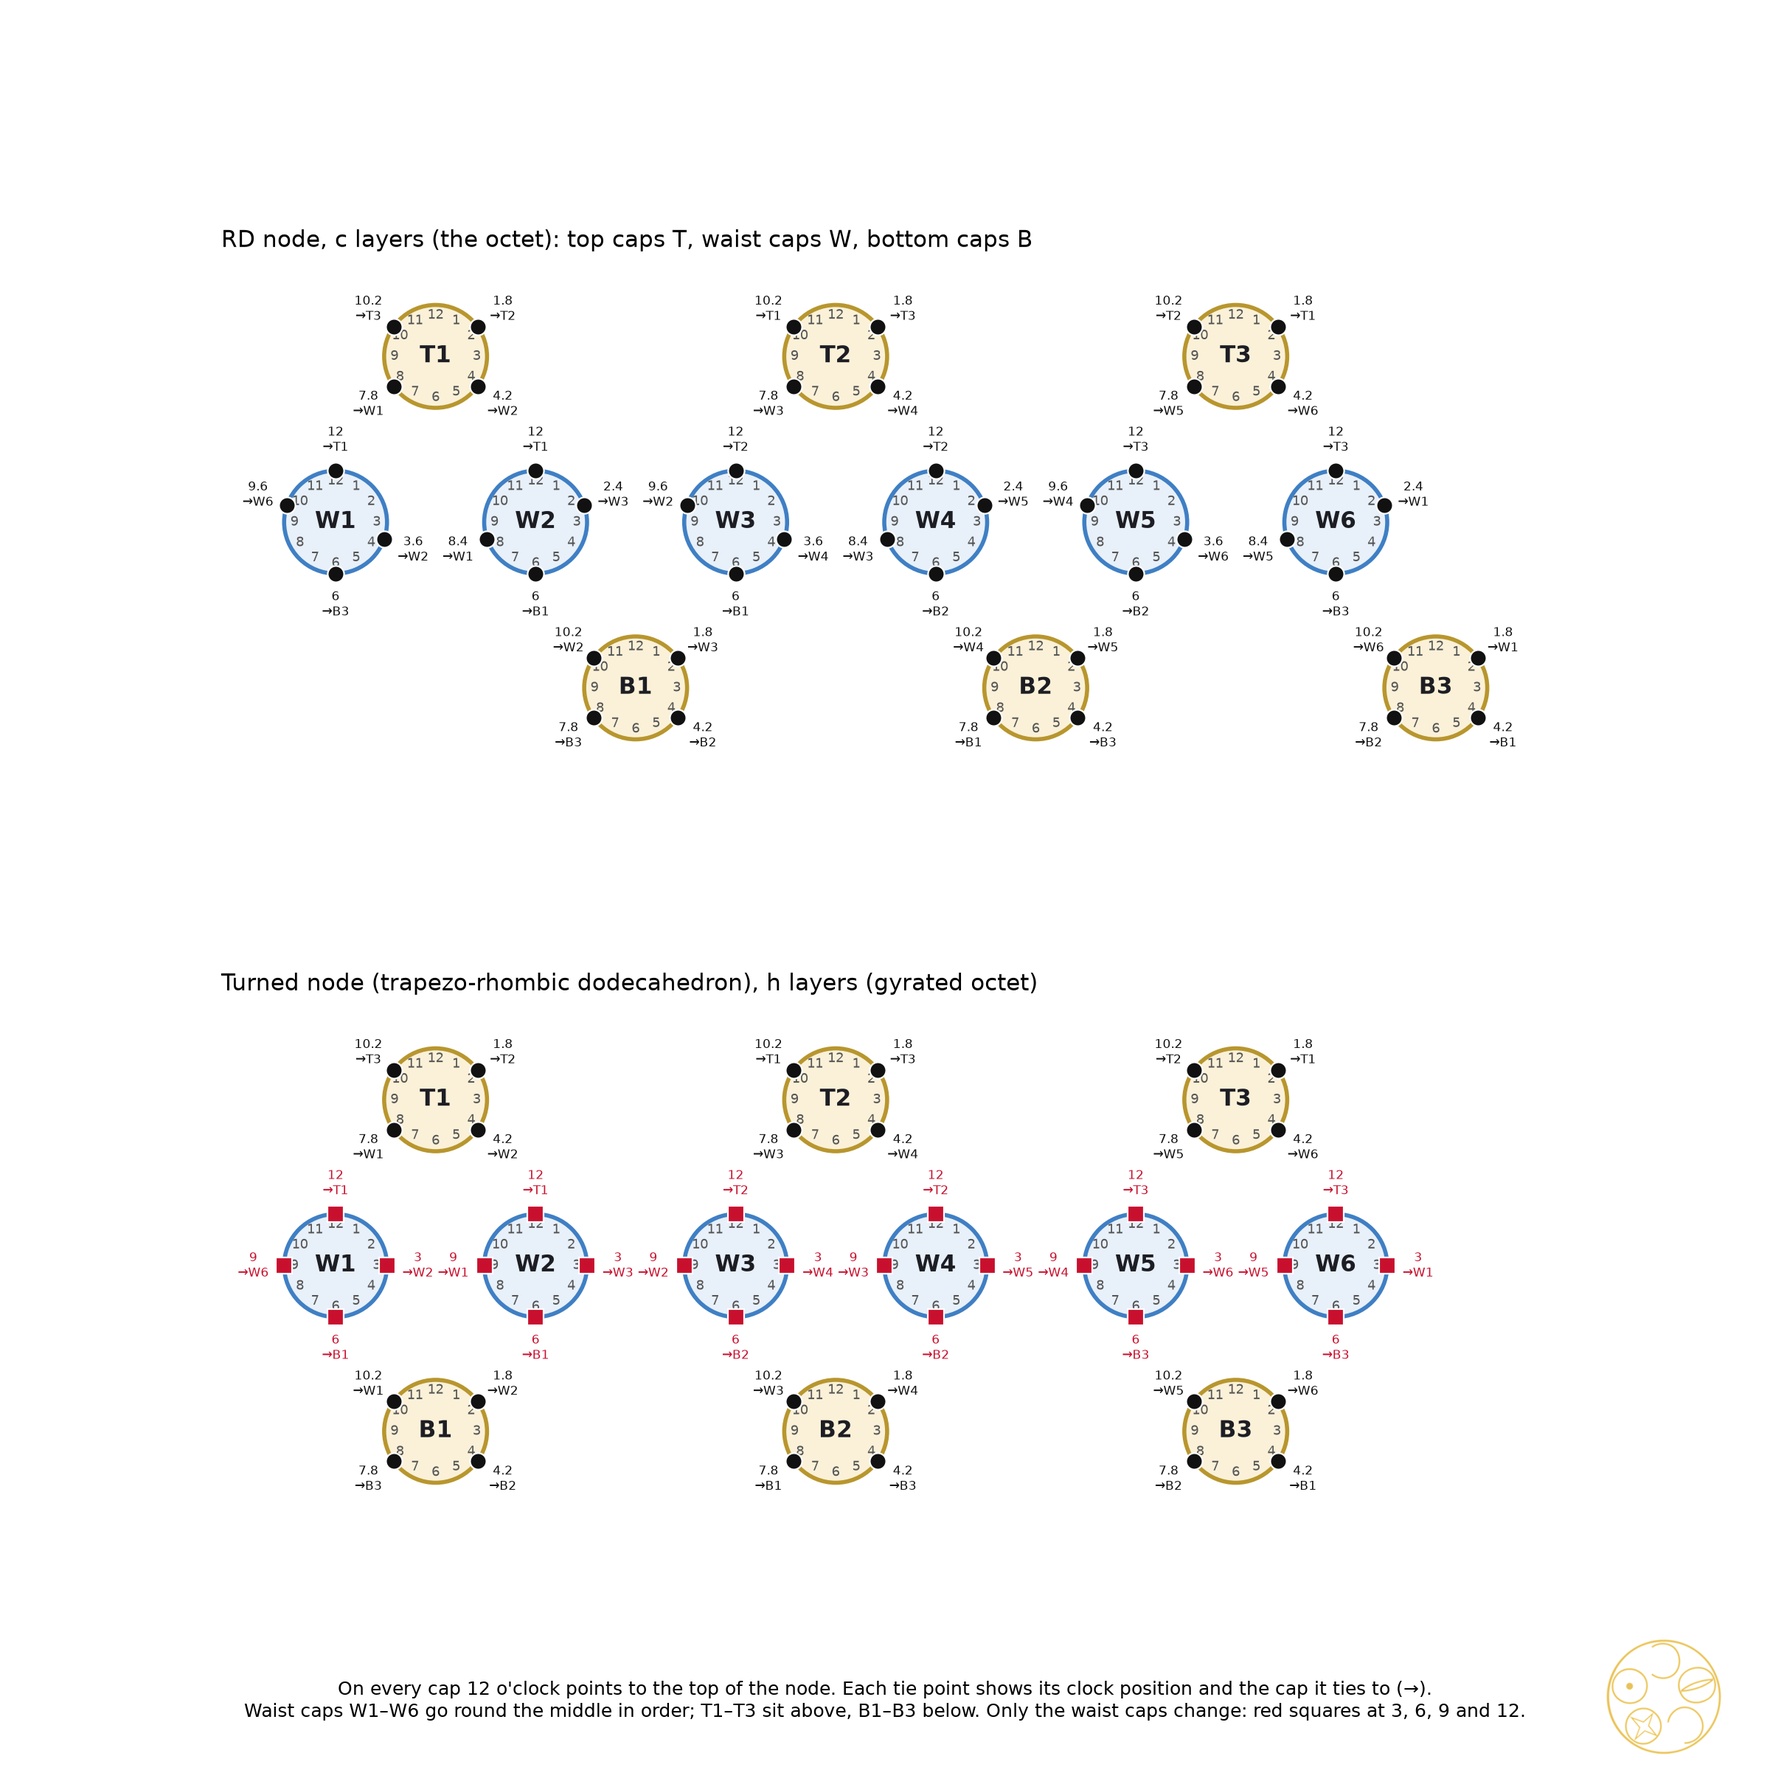
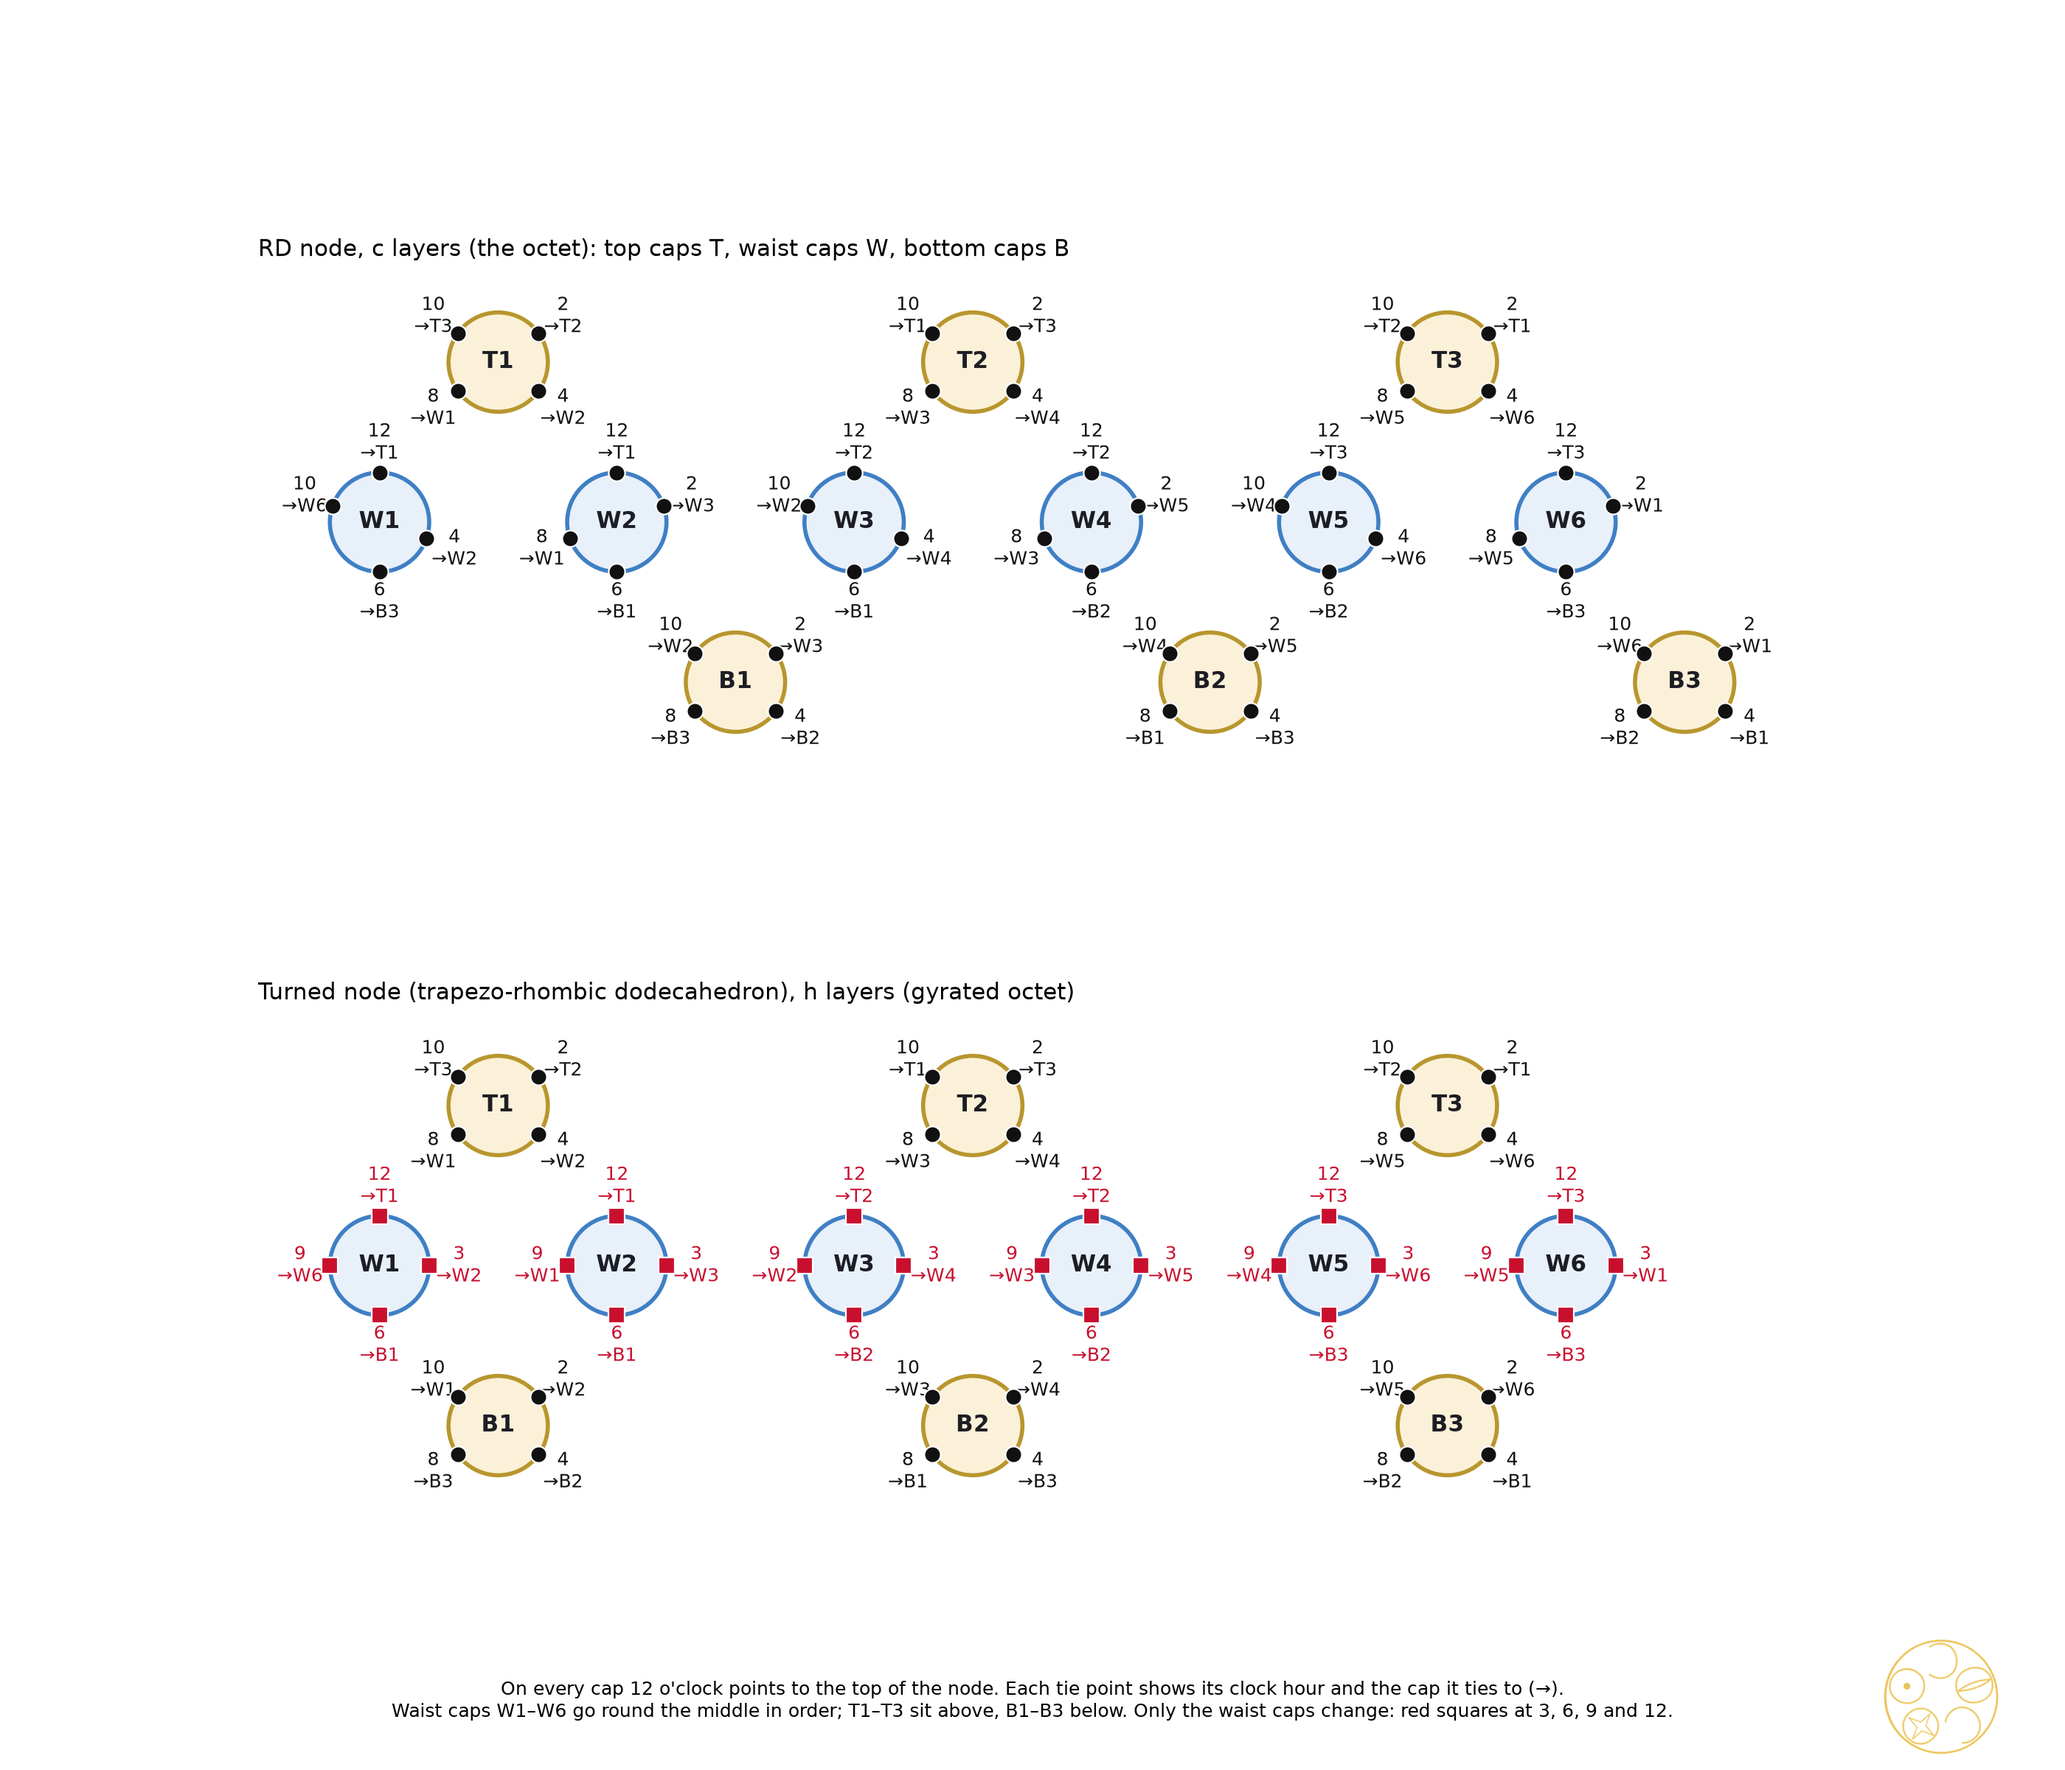
Bottle node clock faces: only the tie hours, wider spacing

diff --git a/studies/2026-10-31-bottle-nodes/scripts/clocks.py b/studies/2026-10-31-bottle-nodes/scripts/clocks.py
@@ -25,11 +25,11 @@ def ties(dn):
         out.append((NAMES[i], t))
     return dict(out)
 def layout(T):
-    L = {f'W{i+1}': (i * 1.75, 1.0) for i in range(6)}
+    L = {f'W{i+1}': (i * 2.15, 1.0) for i in range(6)}
     for k in ('T1', 'T2', 'T3', 'B1', 'B2', 'B3'):
         ws = [L[n][0] for c, n in T[k] if n[0] == 'W']
         xs = sorted(ws)
-        x = (xs[0] + xs[-1]) / 2 if xs[-1] - xs[0] < 5 else (xs[-1] + 1.75 * 6 + xs[0]) / 2 % (1.75 * 6)
+        x = (xs[0] + xs[-1]) / 2 if xs[-1] - xs[0] < 5 else (xs[-1] + 2.15 * 6 + xs[0]) / 2 % (2.15 * 6)
         L[k] = (x, 2.45 if k[0] == 'T' else -0.45)
     return L
 def panel(ax, T, square, title):
@@ -43,8 +43,8 @@ def panel(ax, T, square, title):
             sq = square and waist
             ax.plot(px, py, 's' if sq else 'o', ms=8, color='#c8102e' if sq else '#111', mec='white', mew=.8, zorder=5)
             ax.text(x + (R + .27) * np.cos(a), y + (R + .27) * np.sin(a), f'{(round(clock) % 12) or 12}' + f'\n→{nb}', ha='center', va='center', fontsize=9, color='#c8102e' if sq else '#111')
-    ax.set_title(title, fontsize=11, loc='left'); ax.set_xlim(-1.0, 11.0); ax.set_ylim(-1.3, 3.3); ax.set_aspect('equal'); ax.axis('off')
-fig, axs = plt.subplots(2, 1, figsize=(12, 12))
+    ax.set_title(title, fontsize=11, loc='left'); ax.set_xlim(-1.1, 13.4); ax.set_ylim(-1.3, 3.3); ax.set_aspect('equal'); ax.axis('off')
+fig, axs = plt.subplots(2, 1, figsize=(14, 12))
 panel(axs[0], ties([90, 210, 330]), False, 'RD node, c layers (the octet): top caps T, waist caps W, bottom caps B')
 panel(axs[1], ties([30, 150, 270]), True, 'Turned node (trapezo-rhombic dodecahedron), h layers (gyrated octet)')
 fig.text(.5, .03, "On every cap 12 o'clock points to the top of the node. Each tie point shows its clock hour and the cap it ties to (→).\n"
